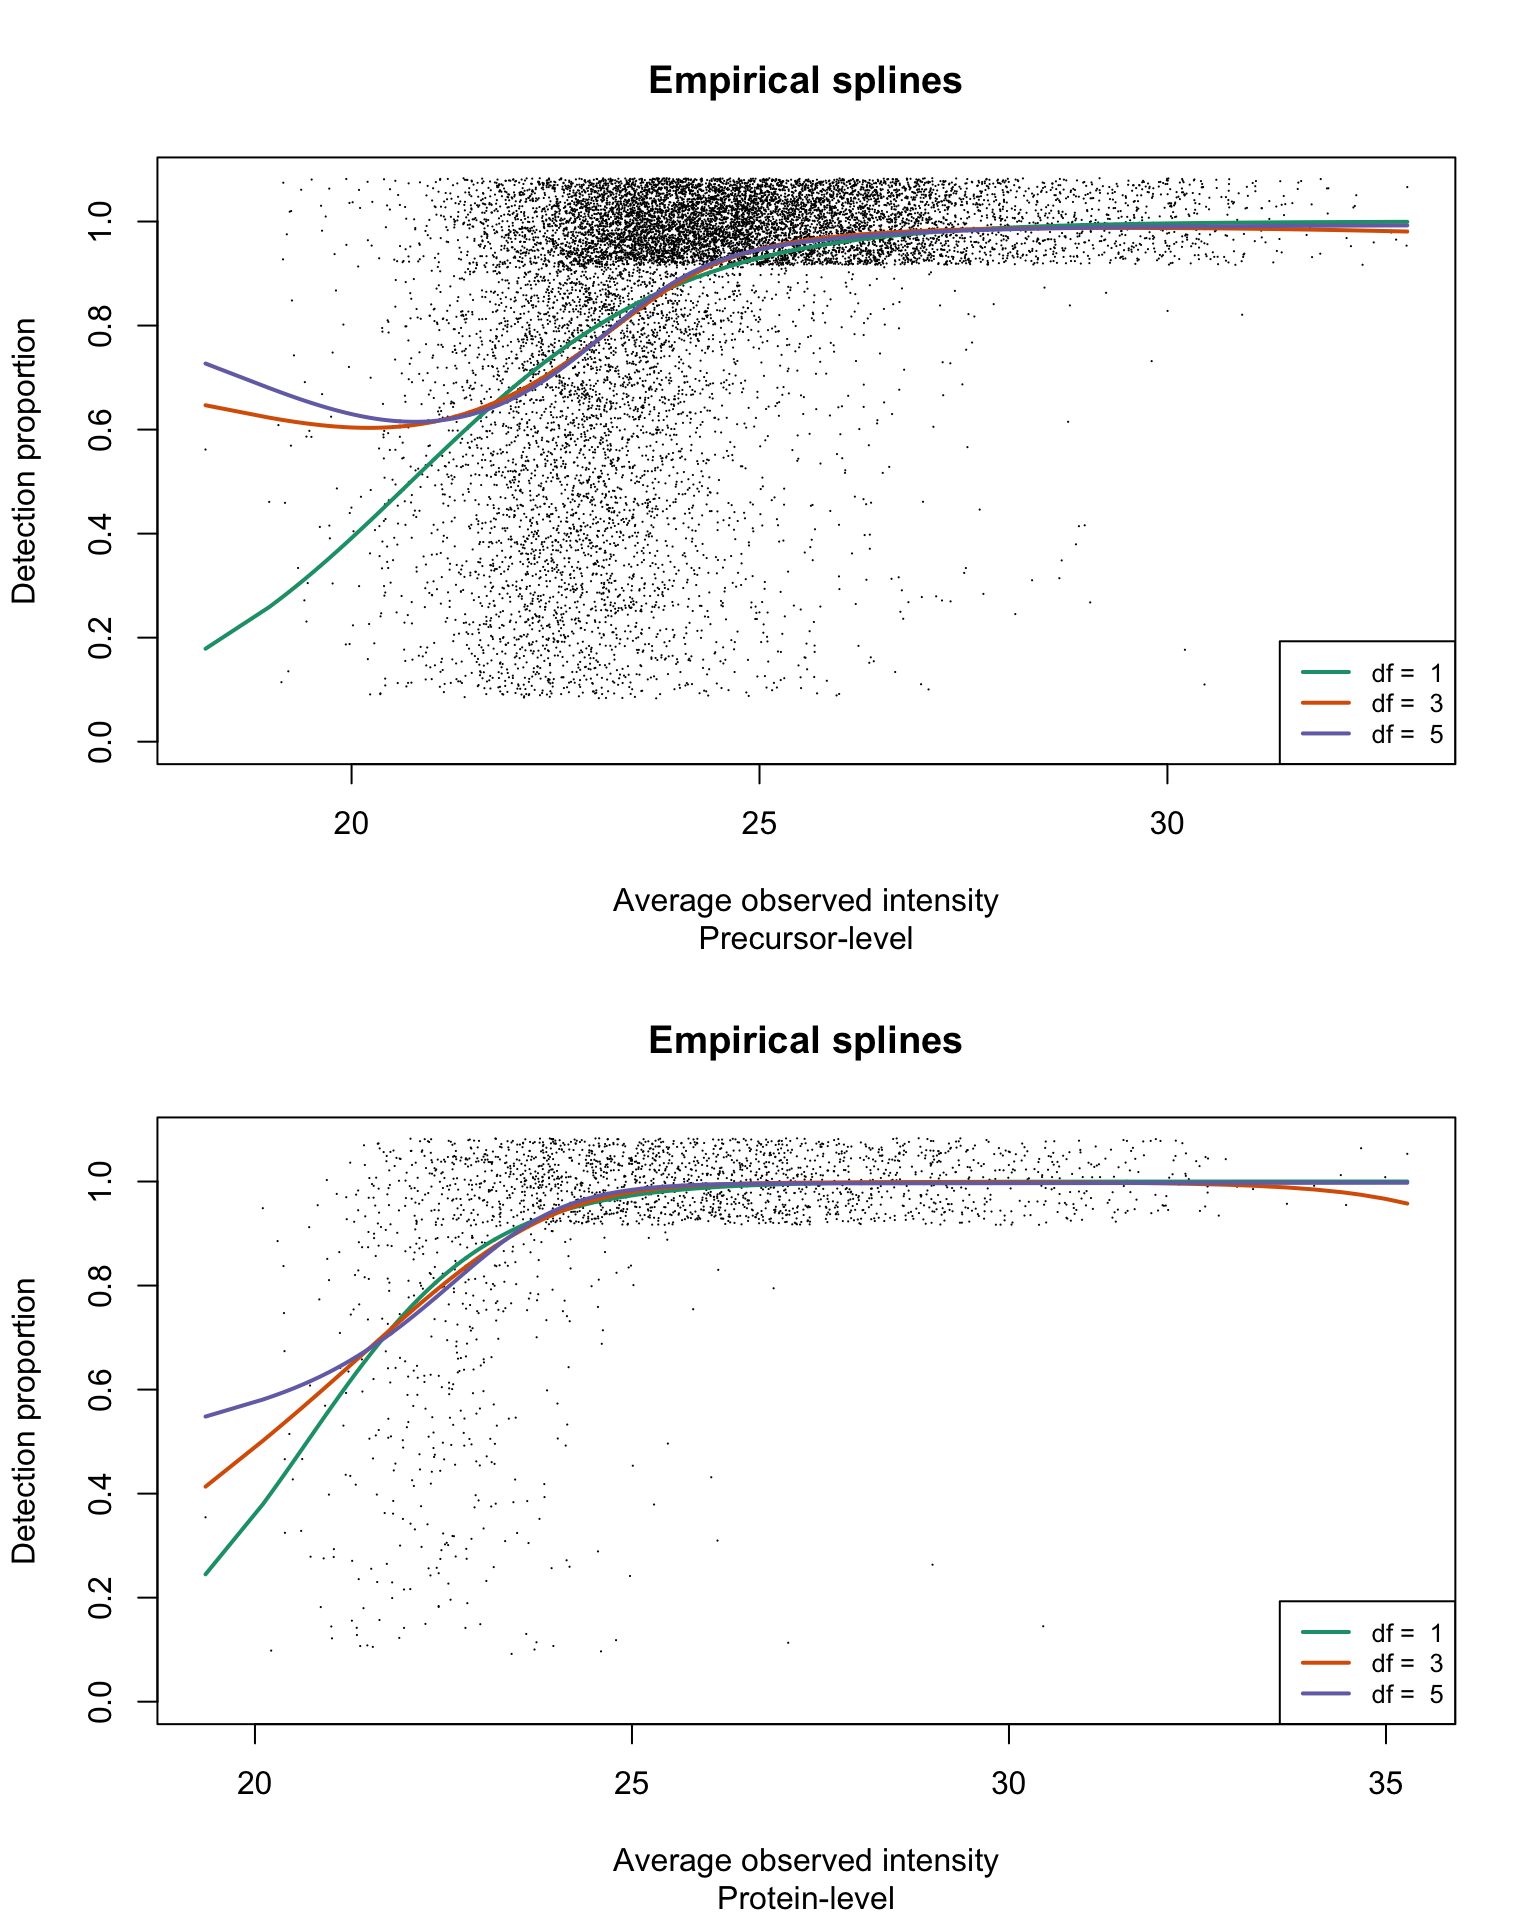
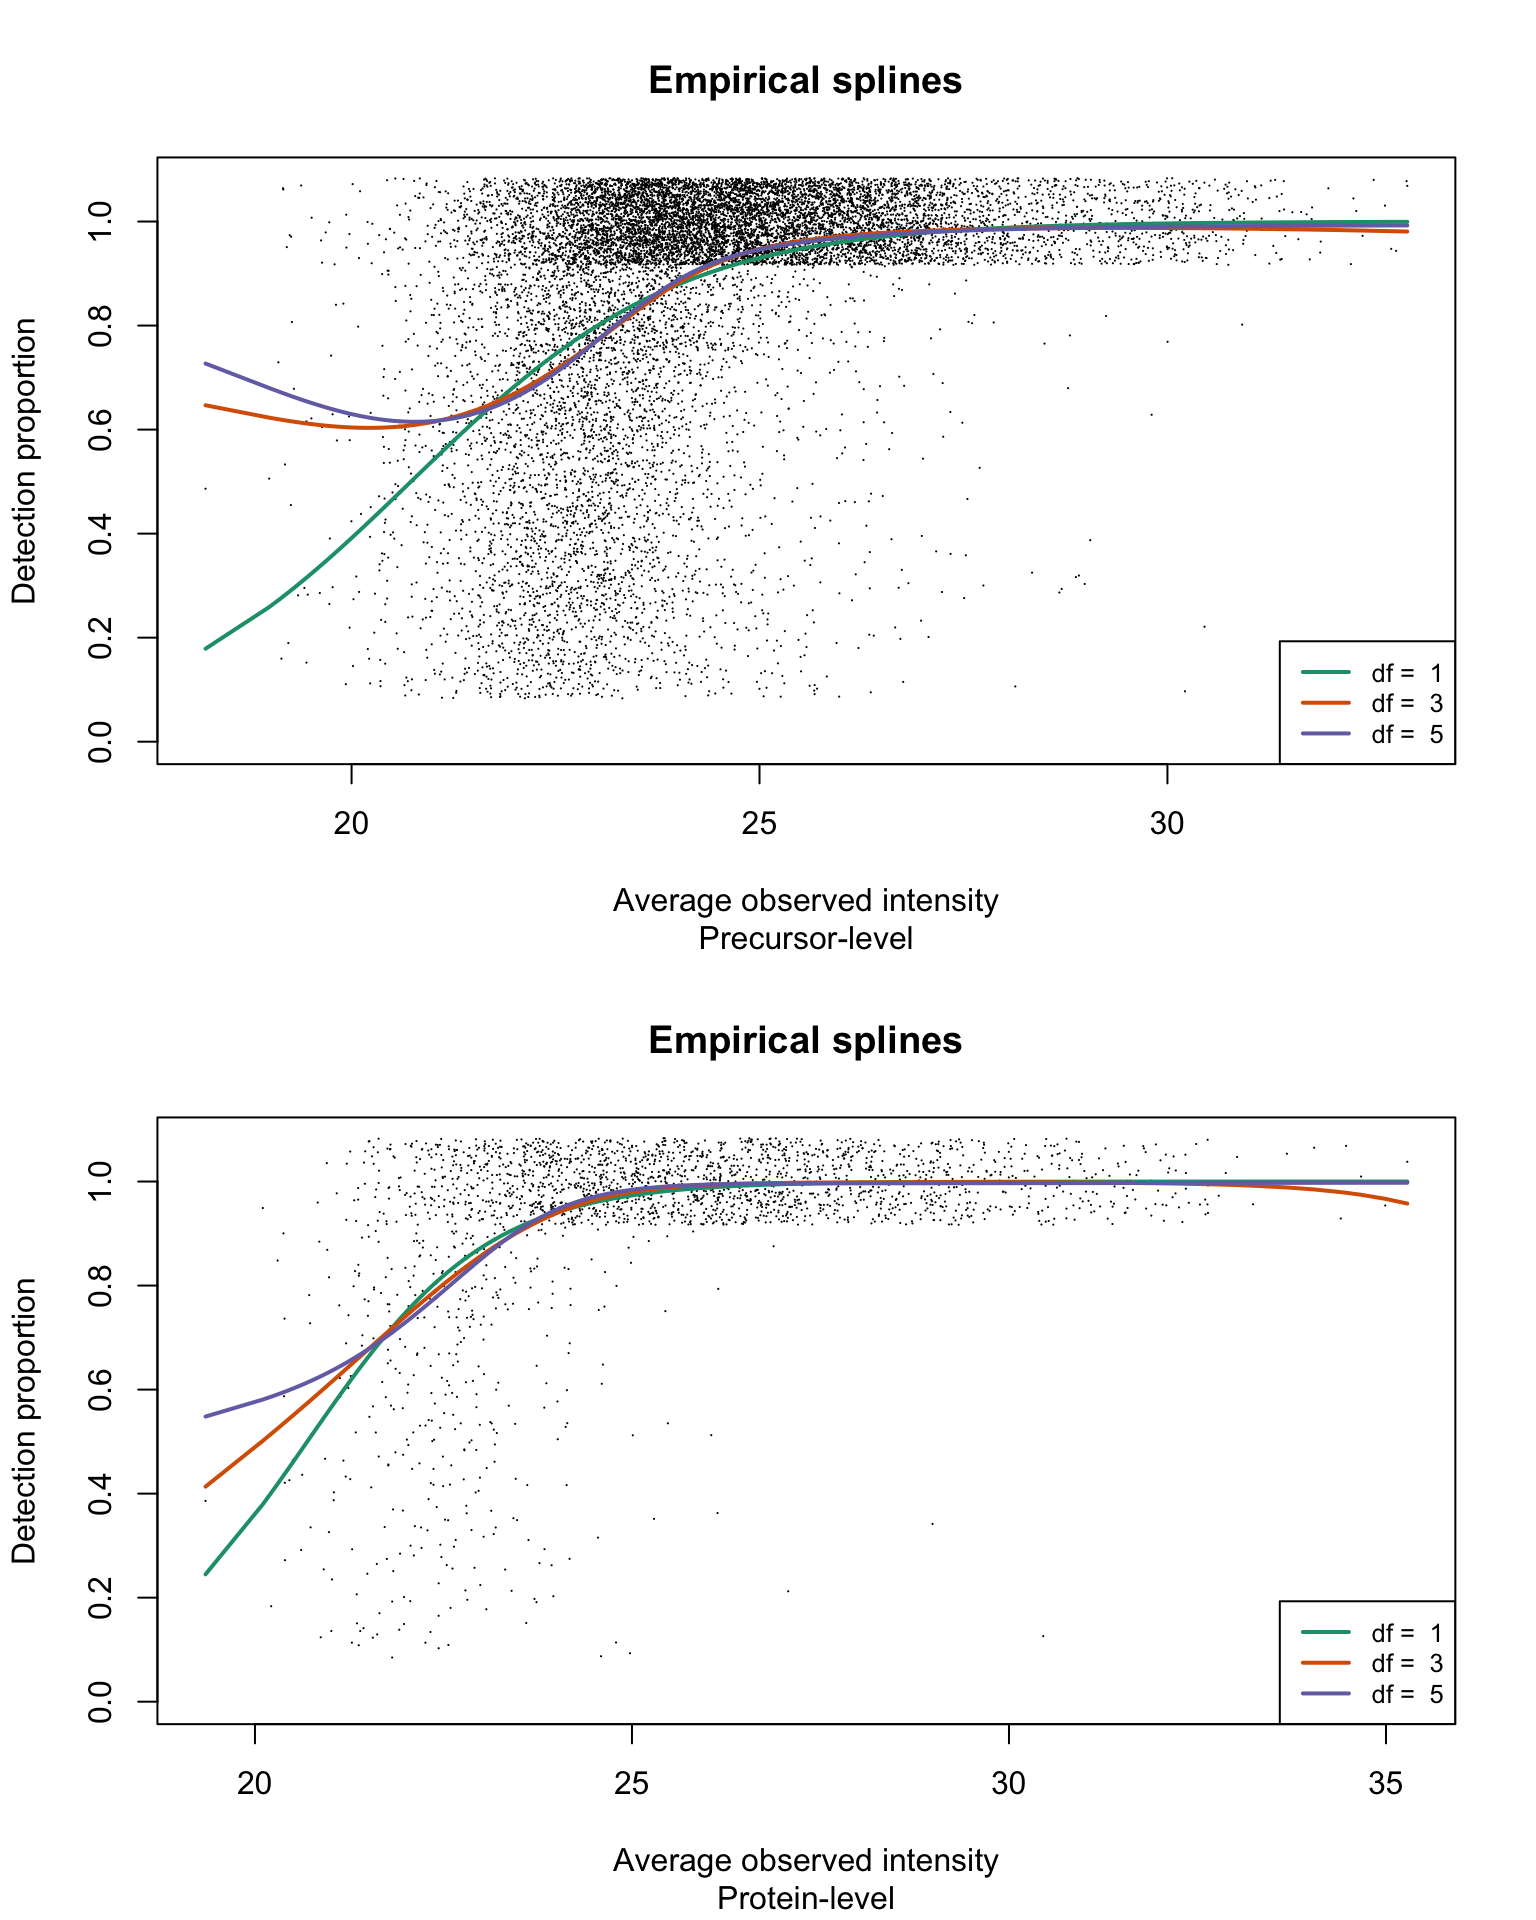
Fix output digits

Changed region(s): [[0.2812, 0.0938, 0.8125, 0.375], [0.25, 0.5938, 0.7188, 0.6562]]

diff --git a/docs/articles/protDP.html b/docs/articles/protDP.html
@@ -130,7 +130,7 @@ values less than 1 were already filtered out.</p>
 <p>The dataset has a relatively small amount of missing values with an
 overall proportion of missing data of</p>
 <div class="sourceCode" id="cb3"><pre class="sourceCode r"><code class="sourceCode r"><span id="cb3-1"><a href="#cb3-1" aria-hidden="true" tabindex="-1"></a><span class="fu">sum</span>(<span class="fu">is.na</span>(dat))<span class="sc">/</span><span class="fu">length</span>(dat)</span>
-<span id="cb3-2"><a href="#cb3-2" aria-hidden="true" tabindex="-1"></a>[<span class="dv">1</span>] <span class="fl">0.08631939</span></span></code></pre></div>
+<span id="cb3-2"><a href="#cb3-2" aria-hidden="true" tabindex="-1"></a>[<span class="dv">1</span>] <span class="fl">0.08632</span></span></code></pre></div>
 </div>
 <div class="section level3">
 <h3 id="empirical-logistic-splines-for-detected-proportions">Empirical logistic splines for detected proportions<a class="anchor" aria-label="anchor" href="#empirical-logistic-splines-for-detected-proportions"></a>
@@ -304,7 +304,7 @@ intensities:</p>
 <span id="cb11-4"><a href="#cb11-4" aria-hidden="true" tabindex="-1"></a>[<span class="dv">1</span>] <span class="dv">10754</span>   <span class="dv">231</span></span></code></pre></div>
 <p>The overall proportion of missing data is</p>
 <div class="sourceCode" id="cb12"><pre class="sourceCode r"><code class="sourceCode r"><span id="cb12-1"><a href="#cb12-1" aria-hidden="true" tabindex="-1"></a><span class="fu">sum</span>(<span class="fu">is.na</span>(dat))<span class="sc">/</span><span class="fu">length</span>(dat)</span>
-<span id="cb12-2"><a href="#cb12-2" aria-hidden="true" tabindex="-1"></a>[<span class="dv">1</span>] <span class="fl">0.60385303</span></span></code></pre></div>
+<span id="cb12-2"><a href="#cb12-2" aria-hidden="true" tabindex="-1"></a>[<span class="dv">1</span>] <span class="fl">0.6039</span></span></code></pre></div>
 <p>The same analyses as those of Dataset A are also performed on Dataset
 B on the precursor level. For simplicity, we created a wrapper function
 to collect all results for a log2-transformed dataset:</p>
@@ -391,7 +391,7 @@ precursor-level intensities.</p>
 <span id="cb20-4"><a href="#cb20-4" aria-hidden="true" tabindex="-1"></a>[<span class="dv">1</span>] <span class="dv">62515</span>    <span class="dv">27</span></span></code></pre></div>
 <p>The overall proportion of missing data is equal to</p>
 <div class="sourceCode" id="cb21"><pre class="sourceCode r"><code class="sourceCode r"><span id="cb21-1"><a href="#cb21-1" aria-hidden="true" tabindex="-1"></a><span class="fu">sum</span>(<span class="fu">is.na</span>(dat))<span class="sc">/</span><span class="fu">length</span>(dat)</span>
-<span id="cb21-2"><a href="#cb21-2" aria-hidden="true" tabindex="-1"></a>[<span class="dv">1</span>] <span class="fl">0.32839585</span></span></code></pre></div>
+<span id="cb21-2"><a href="#cb21-2" aria-hidden="true" tabindex="-1"></a>[<span class="dv">1</span>] <span class="fl">0.3284</span></span></code></pre></div>
 </div>
 <div class="section level3">
 <h3 id="empirical-logistic-splines-for-detected-proportions-2">Empirical logistic splines for detected proportions<a class="anchor" aria-label="anchor" href="#empirical-logistic-splines-for-detected-proportions-2"></a>
@@ -472,7 +472,7 @@ repository with the dataset identifier PXD014777.</p>
 <span id="cb28-4"><a href="#cb28-4" aria-hidden="true" tabindex="-1"></a>[<span class="dv">1</span>] <span class="dv">2384</span>  <span class="dv">212</span></span></code></pre></div>
 <p>The overall proportion of missing data is equal to</p>
 <div class="sourceCode" id="cb29"><pre class="sourceCode r"><code class="sourceCode r"><span id="cb29-1"><a href="#cb29-1" aria-hidden="true" tabindex="-1"></a><span class="fu">sum</span>(<span class="fu">is.na</span>(dat))<span class="sc">/</span><span class="fu">length</span>(dat)</span>
-<span id="cb29-2"><a href="#cb29-2" aria-hidden="true" tabindex="-1"></a>[<span class="dv">1</span>] <span class="fl">0.56866927</span></span></code></pre></div>
+<span id="cb29-2"><a href="#cb29-2" aria-hidden="true" tabindex="-1"></a>[<span class="dv">1</span>] <span class="fl">0.5687</span></span></code></pre></div>
 </div>
 <div class="section level3">
 <h3 id="empirical-logistic-splines-for-detected-proportions-3">Empirical logistic splines for detected proportions<a class="anchor" aria-label="anchor" href="#empirical-logistic-splines-for-detected-proportions-3"></a>

diff --git a/docs/articles/supp.html b/docs/articles/supp.html
@@ -497,7 +497,7 @@ equal to 1 on both precursor- and protein group-level data.</p>
 intensities<a class="anchor" aria-label="anchor" href="#detection-probability-curve-assuming-normal-observed-intensities-4"></a>
 </h3>
 <div class="sourceCode" id="cb43"><pre class="downlit sourceCode r">
-<code class="sourceCode R"><span class="fu"><a href="https://rdrr.io/r/graphics/par.html" class="external-link">par</a></span><span class="op">(</span>mfrow <span class="op">=</span> <span class="fu"><a href="https://rdrr.io/r/base/c.html" class="external-link">c</a></span><span class="op">(</span><span class="fl">2</span>, <span class="fl">2</span><span class="op">)</span><span class="op">)</span>
+<code class="sourceCode R"><span class="fu"><a href="https://rdrr.io/r/graphics/par.html" class="external-link">par</a></span><span class="op">(</span>mfrow <span class="op">=</span> <span class="fu"><a href="https://rdrr.io/r/base/c.html" class="external-link">c</a></span><span class="op">(</span><span class="fl">2</span>, <span class="fl">1</span><span class="op">)</span><span class="op">)</span>
 <span class="kw">for</span> <span class="op">(</span><span class="va">res_i</span> <span class="kw">in</span> <span class="fl">1</span><span class="op">:</span><span class="fl">2</span><span class="op">)</span> <span class="op">{</span>
     <span class="va">eachRes</span> <span class="op">&lt;-</span> <span class="va">res</span><span class="op">[[</span><span class="va">res_i</span><span class="op">]</span><span class="op">]</span>
     <span class="fu"><a href="../reference/plotDPC.html">plotDPC</a></span><span class="op">(</span><span class="va">eachRes</span><span class="op">$</span><span class="va">nuis</span>, <span class="va">eachRes</span><span class="op">$</span><span class="va">dpcFit</span>, jitter.amount <span class="op">=</span> <span class="fl">1</span><span class="op">/</span><span class="fu"><a href="https://rdrr.io/r/base/nrow.html" class="external-link">ncol</a></span><span class="op">(</span><span class="va">shbheart_prec</span><span class="op">)</span><span class="op">/</span><span class="fl">2</span>,
